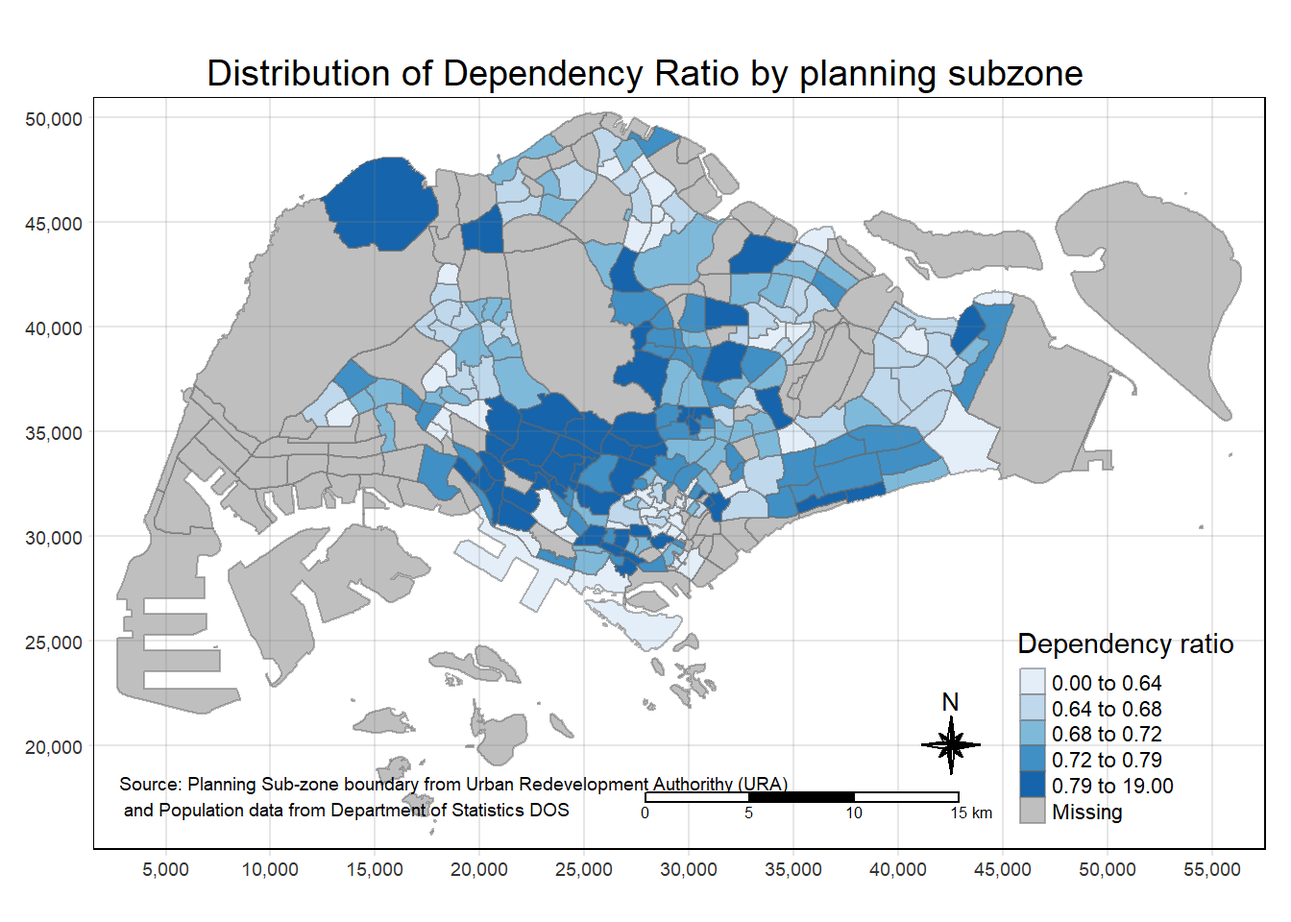
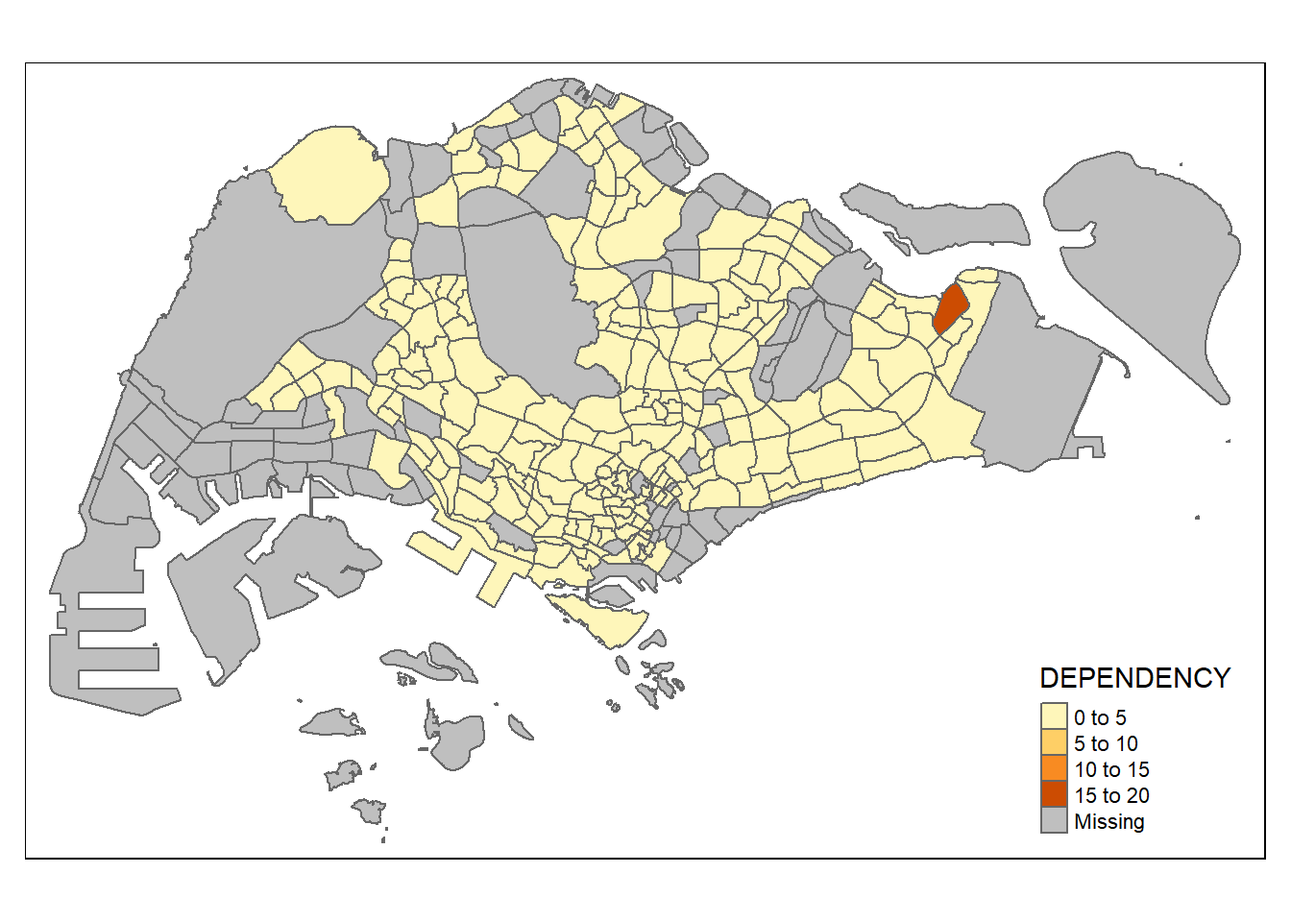
1st commit 23 nov hands-on2

diff --git a/_site/Hands-on_Ex02/Hands-on_Ex02.html b/_site/Hands-on_Ex02/Hands-on_Ex02.html
@@ -189,6 +189,7 @@ code span.wa { color: #60a0b0; font-weight: bold; font-style: italic; } /* Warni
   <li><a href="#choropleth-mapping-geospatial-data-using-tmap" id="toc-choropleth-mapping-geospatial-data-using-tmap" class="nav-link" data-scroll-target="#choropleth-mapping-geospatial-data-using-tmap">Choropleth Mapping Geospatial Data Using tmap</a>
   <ul class="collapse">
   <li><a href="#plotting-a-choropleth-map-quickly-using-qtm" id="toc-plotting-a-choropleth-map-quickly-using-qtm" class="nav-link" data-scroll-target="#plotting-a-choropleth-map-quickly-using-qtm">Plotting a choropleth map quickly using qtm()</a></li>
+  <li><a href="#creating-a-choropleth-map-by-using-tmaps-elements" id="toc-creating-a-choropleth-map-by-using-tmaps-elements" class="nav-link" data-scroll-target="#creating-a-choropleth-map-by-using-tmaps-elements">Creating a Choropleth map by using tmap’s elements</a></li>
   </ul></li>
   </ul>
 </nav>
@@ -243,7 +244,7 @@ tidyverse 1.3.2 ──</code></pre>
 ✖ dplyr::filter() masks stats::filter()
 ✖ dplyr::lag()    masks stats::lag()</code></pre>
 </div>
-<div class="sourceCode cell-code" id="cb6"><pre class="sourceCode r code-with-copy"><code class="sourceCode r"><span id="cb6-1"><a href="#cb6-1" aria-hidden="true" tabindex="-1"></a><span class="fu">library</span>(<span class="st">"tmap"</span>)</span></code><button title="Copy to Clipboard" class="code-copy-button"><i class="bi"></i></button></pre></div>
+<div class="sourceCode cell-code" id="cb6"><pre class="sourceCode r code-with-copy"><code class="sourceCode r"><span id="cb6-1"><a href="#cb6-1" aria-hidden="true" tabindex="-1"></a><span class="fu">library</span>(tmap)</span></code><button title="Copy to Clipboard" class="code-copy-button"><i class="bi"></i></button></pre></div>
 </div>
 </section>
 <section id="import-geospatial-data-into-r" class="level2">
@@ -349,8 +350,8 @@ dbl (2): Pop, Time
 <h3 class="anchored" data-anchor-id="section"></h3>
 <p>Data Wrangling</p>
 <ul>
-<li><p><em>pivot_wider()</em> of <strong>tidyr</strong> package, and</p></li>
-<li><p><em>mutate()</em>, <em>filter()</em>, <em>group_by()</em> and <em>select()</em> of <strong>dplyr</strong> package</p></li>
+<li><p><em>pivot_wider()</em> (rows to column headers) of <strong>tidyr</strong> package, and</p></li>
+<li><p><em>mutate() (create new cal col)</em>, <em>filter() (subset rows)</em>, <em>group_by()</em> and <em>select() (select cols)</em> of <strong>dplyr</strong> package</p></li>
 </ul>
 <div class="cell">
 <div class="sourceCode cell-code" id="cb15"><pre class="sourceCode r code-with-copy"><code class="sourceCode r"><span id="cb15-1"><a href="#cb15-1" aria-hidden="true" tabindex="-1"></a>popdata2020 <span class="ot">&lt;-</span> popdata <span class="sc">%&gt;%</span> </span>
@@ -388,15 +389,51 @@ dbl (2): Pop, Time
 # … with 322 more rows, and abbreviated variable name ¹DEPENDENCY</code></pre>
 </div>
 </div>
+<p>Refer to this <a href="https://bookdown.org/yih_huynh/Guide-to-R-Book/groupby.html">link</a>for difference between group_by() - mutate() and group_by() - summarise()</p>
+<p>ungroup() usually done after performing calculation in group()</p>
+<div class="cell">
+<div class="sourceCode cell-code" id="cb19"><pre class="sourceCode r code-with-copy"><code class="sourceCode r"><span id="cb19-1"><a href="#cb19-1" aria-hidden="true" tabindex="-1"></a>popdata20201 <span class="ot">&lt;-</span> popdata <span class="sc">%&gt;%</span> </span>
+<span id="cb19-2"><a href="#cb19-2" aria-hidden="true" tabindex="-1"></a>  <span class="fu">filter</span>(Time <span class="sc">==</span> <span class="dv">2020</span>) <span class="sc">%&gt;%</span> </span>
+<span id="cb19-3"><a href="#cb19-3" aria-hidden="true" tabindex="-1"></a>  <span class="fu">group_by</span>(PA,SZ,AG) <span class="sc">%&gt;%</span> </span>
+<span id="cb19-4"><a href="#cb19-4" aria-hidden="true" tabindex="-1"></a>  <span class="fu">summarise</span>(<span class="at">POP =</span> <span class="fu">sum</span>(Pop))</span></code><button title="Copy to Clipboard" class="code-copy-button"><i class="bi"></i></button></pre></div>
+<div class="cell-output cell-output-stderr">
+<pre><code>`summarise()` has grouped output by 'PA', 'SZ'. You can override using the
+`.groups` argument.</code></pre>
+</div>
+<div class="sourceCode cell-code" id="cb21"><pre class="sourceCode r code-with-copy"><code class="sourceCode r"><span id="cb21-1"><a href="#cb21-1" aria-hidden="true" tabindex="-1"></a>popdata20201</span></code><button title="Copy to Clipboard" class="code-copy-button"><i class="bi"></i></button></pre></div>
+<div class="cell-output cell-output-stdout">
+<pre><code># A tibble: 6,308 × 4
+# Groups:   PA, SZ [332]
+   PA         SZ                     AG         POP
+   &lt;chr&gt;      &lt;chr&gt;                  &lt;chr&gt;    &lt;dbl&gt;
+ 1 Ang Mo Kio Ang Mo Kio Town Centre 0_to_4     170
+ 2 Ang Mo Kio Ang Mo Kio Town Centre 10_to_14   280
+ 3 Ang Mo Kio Ang Mo Kio Town Centre 15_to_19   340
+ 4 Ang Mo Kio Ang Mo Kio Town Centre 20_to_24   270
+ 5 Ang Mo Kio Ang Mo Kio Town Centre 25_to_29   260
+ 6 Ang Mo Kio Ang Mo Kio Town Centre 30_to_34   310
+ 7 Ang Mo Kio Ang Mo Kio Town Centre 35_to_39   330
+ 8 Ang Mo Kio Ang Mo Kio Town Centre 40_to_44   400
+ 9 Ang Mo Kio Ang Mo Kio Town Centre 45_to_49   480
+10 Ang Mo Kio Ang Mo Kio Town Centre 5_to_9     230
+# … with 6,298 more rows</code></pre>
+</div>
+</div>
 </section>
 <section id="joining-the-attribute-data-and-geospatial-data" class="level3">
 <h3 class="anchored" data-anchor-id="joining-the-attribute-data-and-geospatial-data">Joining the attribute data and geospatial data</h3>
-<p>Convert PA and SZ fields in popdata2020 into all uppercase</p>
+<p>Convert PA and SZ fields in popdata2020 into all uppercase using:</p>
+<ol type="1">
+<li>toupper() &lt;- to upper case</li>
+<li><a href="https://dplyr.tidyverse.org/reference/mutate_all.html">mutate.at()</a>&lt;- mutate multiple columns</li>
+<li>argument: .var &lt;- list of columns generated by vars()</li>
+<li>argument: .funs &lt;- a function fun, a quosure style lambda</li>
+</ol>
 <div class="cell">
-<div class="sourceCode cell-code" id="cb19"><pre class="sourceCode r code-with-copy"><code class="sourceCode r"><span id="cb19-1"><a href="#cb19-1" aria-hidden="true" tabindex="-1"></a>popdata2020 <span class="ot">&lt;-</span> popdata2020 <span class="sc">%&gt;%</span> </span>
-<span id="cb19-2"><a href="#cb19-2" aria-hidden="true" tabindex="-1"></a>  <span class="fu">mutate_at</span>(<span class="at">.var=</span> <span class="fu">vars</span>(PA,SZ),</span>
-<span id="cb19-3"><a href="#cb19-3" aria-hidden="true" tabindex="-1"></a>            <span class="at">.funs =</span> <span class="fu">funs</span>(toupper)) <span class="sc">%&gt;%</span></span>
-<span id="cb19-4"><a href="#cb19-4" aria-hidden="true" tabindex="-1"></a>  <span class="fu">filter</span>(<span class="st">`</span><span class="at">ECONOMY ACTIVE</span><span class="st">`</span> <span class="sc">&gt;</span><span class="dv">0</span>)</span></code><button title="Copy to Clipboard" class="code-copy-button"><i class="bi"></i></button></pre></div>
+<div class="sourceCode cell-code" id="cb23"><pre class="sourceCode r code-with-copy"><code class="sourceCode r"><span id="cb23-1"><a href="#cb23-1" aria-hidden="true" tabindex="-1"></a>popdata2020 <span class="ot">&lt;-</span> popdata2020 <span class="sc">%&gt;%</span> </span>
+<span id="cb23-2"><a href="#cb23-2" aria-hidden="true" tabindex="-1"></a>  <span class="fu">mutate_at</span>(<span class="at">.var=</span> <span class="fu">vars</span>(PA,SZ),</span>
+<span id="cb23-3"><a href="#cb23-3" aria-hidden="true" tabindex="-1"></a>            <span class="at">.funs =</span> <span class="fu">funs</span>(toupper)) <span class="sc">%&gt;%</span></span>
+<span id="cb23-4"><a href="#cb23-4" aria-hidden="true" tabindex="-1"></a>  <span class="fu">filter</span>(<span class="st">`</span><span class="at">ECONOMY ACTIVE</span><span class="st">`</span> <span class="sc">&gt;</span><span class="dv">0</span>)</span></code><button title="Copy to Clipboard" class="code-copy-button"><i class="bi"></i></button></pre></div>
 <div class="cell-output cell-output-stderr">
 <pre><code>Warning: `funs()` was deprecated in dplyr 0.8.0.
 Please use a list of either functions or lambdas: 
@@ -415,11 +452,11 @@ Call `lifecycle::last_lifecycle_warnings()` to see where this warning was genera
 </div>
 <p>Next, <em>left_join()</em> of <strong>dplyr</strong> is used to join the geographical data and attribute table using planning subzone name e.g.&nbsp;<em>SUBZONE_N</em> and <em>SZ</em> as the common identifier.</p>
 <div class="cell">
-<div class="sourceCode cell-code" id="cb21"><pre class="sourceCode r code-with-copy"><code class="sourceCode r"><span id="cb21-1"><a href="#cb21-1" aria-hidden="true" tabindex="-1"></a>mpsz_pop2020 <span class="ot">&lt;-</span> <span class="fu">left_join</span>(mpsz, popdata2020,</span>
-<span id="cb21-2"><a href="#cb21-2" aria-hidden="true" tabindex="-1"></a>                          <span class="at">by =</span> <span class="fu">c</span>(<span class="st">"SUBZONE_N"</span> <span class="ot">=</span> <span class="st">"SZ"</span>))</span></code><button title="Copy to Clipboard" class="code-copy-button"><i class="bi"></i></button></pre></div>
+<div class="sourceCode cell-code" id="cb25"><pre class="sourceCode r code-with-copy"><code class="sourceCode r"><span id="cb25-1"><a href="#cb25-1" aria-hidden="true" tabindex="-1"></a>mpsz_pop2020 <span class="ot">&lt;-</span> <span class="fu">left_join</span>(mpsz, popdata2020,</span>
+<span id="cb25-2"><a href="#cb25-2" aria-hidden="true" tabindex="-1"></a>                          <span class="at">by =</span> <span class="fu">c</span>(<span class="st">"SUBZONE_N"</span> <span class="ot">=</span> <span class="st">"SZ"</span>))</span></code><button title="Copy to Clipboard" class="code-copy-button"><i class="bi"></i></button></pre></div>
 </div>
 <div class="cell">
-<div class="sourceCode cell-code" id="cb22"><pre class="sourceCode r code-with-copy"><code class="sourceCode r"><span id="cb22-1"><a href="#cb22-1" aria-hidden="true" tabindex="-1"></a><span class="fu">write_rds</span>(mpsz_pop2020, <span class="st">"data/rds/mpszpop2020.rds"</span>)</span></code><button title="Copy to Clipboard" class="code-copy-button"><i class="bi"></i></button></pre></div>
+<div class="sourceCode cell-code" id="cb26"><pre class="sourceCode r code-with-copy"><code class="sourceCode r"><span id="cb26-1"><a href="#cb26-1" aria-hidden="true" tabindex="-1"></a><span class="co">#write_rds(mpsz_pop2020, "data/rds/mpszpop2020.rds")</span></span></code><button title="Copy to Clipboard" class="code-copy-button"><i class="bi"></i></button></pre></div>
 </div>
 </section>
 </section>
@@ -427,97 +464,84 @@ Call `lifecycle::last_lifecycle_warnings()` to see where this warning was genera
 <h2 class="anchored" data-anchor-id="choropleth-mapping-geospatial-data-using-tmap">Choropleth Mapping Geospatial Data Using tmap</h2>
 <p>Two approaches can be used to prepare thematic map using <em>tmap</em>, they are:</p>
 <ul>
-<li><p>Plotting a thematic map quickly by using <em>qtm()</em>.</p></li>
+<li><p>Plotting a thematic map quickly by using <a href="https://bookdown.org/lexcomber/brunsdoncomber2e/Ch3.html">qtm()</a> (Quick thematic plot)</p></li>
 <li><p>Plotting highly customisable thematic map by using tmap elements.</p></li>
 </ul>
 <section id="plotting-a-choropleth-map-quickly-using-qtm" class="level3">
 <h3 class="anchored" data-anchor-id="plotting-a-choropleth-map-quickly-using-qtm">Plotting a choropleth map quickly using qtm()</h3>
 <div class="cell">
-<div class="sourceCode cell-code" id="cb23"><pre class="sourceCode r code-with-copy"><code class="sourceCode r"><span id="cb23-1"><a href="#cb23-1" aria-hidden="true" tabindex="-1"></a><span class="fu">top_n</span>(mpsz_pop2020, <span class="sc">-</span><span class="dv">15</span>,<span class="st">`</span><span class="at">DEPENDENCY</span><span class="st">`</span>)</span></code><button title="Copy to Clipboard" class="code-copy-button"><i class="bi"></i></button></pre></div>
+<div class="sourceCode cell-code" id="cb27"><pre class="sourceCode r code-with-copy"><code class="sourceCode r"><span id="cb27-1"><a href="#cb27-1" aria-hidden="true" tabindex="-1"></a><span class="fu">top_n</span>(mpsz_pop2020, <span class="dv">1</span>,<span class="st">`</span><span class="at">DEPENDENCY</span><span class="st">`</span>)</span></code><button title="Copy to Clipboard" class="code-copy-button"><i class="bi"></i></button></pre></div>
 <div class="cell-output cell-output-stdout">
-<pre><code>Simple feature collection with 15 features and 21 fields
+<pre><code>Simple feature collection with 1 feature and 21 fields
 Geometry type: MULTIPOLYGON
 Dimension:     XY
-Bounding box:  xmin: 17364.17 ymin: 26398.47 xmax: 30794.28 ymax: 35488.95
+Bounding box:  xmin: 42513.65 ymin: 38644.89 xmax: 44163.44 ymax: 41072.58
 Projected CRS: SVY21
-First 10 features:
-   OBJECTID SUBZONE_NO       SUBZONE_N SUBZONE_C CA_IND      PLN_AREA_N
-1         3          3       BOAT QUAY    SRSZ03      Y SINGAPORE RIVER
-2         8          2     CLARKE QUAY    SRSZ02      Y SINGAPORE RIVER
-3        12          6 ALEXANDRA NORTH    BMSZ06      N     BUKIT MERAH
-4        27          8           CECIL    DTSZ08      Y   DOWNTOWN CORE
-5        31         11 CENTRAL SUBZONE    DTSZ11      Y   DOWNTOWN CORE
-6        34          2   PEOPLE'S PARK    OTSZ02      Y          OUTRAM
-7        53          3        SOMERSET    ORSZ03      Y         ORCHARD
-8        56         15            PORT    QTSZ15      N      QUEENSTOWN
-9        57          1     DHOBY GHAUT    MUSZ01      Y          MUSEUM
-10       62          9   TANJONG PAGAR    DTSZ09      Y   DOWNTOWN CORE
-   PLN_AREA_C       REGION_N REGION_C          INC_CRC FMEL_UPD_D   X_ADDR
-1          SR CENTRAL REGION       CR C35FEFF02B13E0E5 2014-12-05 29654.96
-2          SR CENTRAL REGION       CR 48661DC0FBA09F7A 2014-12-05 29253.21
-3          BM CENTRAL REGION       CR 4DC4BF8D86594CBF 2014-12-05 26548.25
-4          DT CENTRAL REGION       CR 65AA82AF6F4D925D 2014-12-05 29730.20
-5          DT CENTRAL REGION       CR 8EFE9EC1AEF2DA0A 2014-12-05 30125.84
-6          OT CENTRAL REGION       CR B4120D23006C932A 2014-12-05 28831.78
-7          OR CENTRAL REGION       CR F70C32D861DD6CA5 2014-12-05 28626.56
-8          QT CENTRAL REGION       CR 543ED13CCC907021 2014-12-05 21576.08
-9          MU CENTRAL REGION       CR AD3DE26295353551 2014-12-05 29320.07
-10         DT CENTRAL REGION       CR 4FFE6642FB35D40A 2014-12-05 29397.83
-     Y_ADDR SHAPE_Leng SHAPE_Area              PA YOUNG ECONOMY ACTIVE AGED
-1  29974.66   1740.926  160807.50 SINGAPORE RIVER     0             40   10
-2  30222.86   2208.619  290184.65 SINGAPORE RIVER     0             50   10
-3  30519.39   2907.051  293706.40     BUKIT MERAH   720           1740  160
-4  29011.33   2116.095  196619.86   DOWNTOWN CORE    20            230    0
-5  28683.04   5002.016 1070723.26   DOWNTOWN CORE   170            660   40
-6  29419.65   1822.193   93140.44          OUTRAM    20            200   60
-7  31494.90   3039.805  329437.93         ORCHARD     0             80    0
-8  28788.22  23438.819 7601894.00      QUEENSTOWN     0             60   20
-9  31245.75   2584.788  221973.34          MUSEUM    50            250   20
-10 28706.35   1787.710  145518.66   DOWNTOWN CORE    80            530   70
-   TOTAL DEPENDENCY                       geometry
-1     50 0.25000000 MULTIPOLYGON (((29932.33 29...
-2     60 0.20000000 MULTIPOLYGON (((29351.26 29...
-3   2620 0.50574713 MULTIPOLYGON (((26231.96 30...
-4    250 0.08695652 MULTIPOLYGON (((29808.18 28...
-5    870 0.31818182 MULTIPOLYGON (((30436.73 29...
-6    280 0.40000000 MULTIPOLYGON (((29099.02 29...
-7     80 0.00000000 MULTIPOLYGON (((28677.44 31...
-8     80 0.33333333 MULTIPOLYGON (((20404.57 30...
-9    320 0.28000000 MULTIPOLYGON (((29383.41 31...
-10   680 0.28301887 MULTIPOLYGON (((29612.3 286...</code></pre>
+  OBJECTID SUBZONE_NO   SUBZONE_N SUBZONE_C CA_IND PLN_AREA_N PLN_AREA_C
+1      229          6 LOYANG WEST    PRSZ06      N  PASIR RIS         PR
+     REGION_N REGION_C          INC_CRC FMEL_UPD_D   X_ADDR   Y_ADDR SHAPE_Leng
+1 EAST REGION       ER 05FD555397CBEE7A 2014-12-05 43294.83 39888.77   6203.002
+  SHAPE_Area        PA YOUNG ECONOMY ACTIVE AGED TOTAL DEPENDENCY
+1    2114789 PASIR RIS     0             10  190   200         19
+                        geometry
+1 MULTIPOLYGON (((43756.39 39...</code></pre>
 </div>
 </div>
 <div class="cell">
-<div class="sourceCode cell-code" id="cb25"><pre class="sourceCode r code-with-copy"><code class="sourceCode r"><span id="cb25-1"><a href="#cb25-1" aria-hidden="true" tabindex="-1"></a><span class="fu">tmap_mode</span>(<span class="st">"plot"</span>)</span></code><button title="Copy to Clipboard" class="code-copy-button"><i class="bi"></i></button></pre></div>
+<div class="sourceCode cell-code" id="cb29"><pre class="sourceCode r code-with-copy"><code class="sourceCode r"><span id="cb29-1"><a href="#cb29-1" aria-hidden="true" tabindex="-1"></a><span class="fu">tmap_mode</span>(<span class="st">"plot"</span>)</span></code><button title="Copy to Clipboard" class="code-copy-button"><i class="bi"></i></button></pre></div>
 <div class="cell-output cell-output-stderr">
 <pre><code>tmap mode set to plotting</code></pre>
 </div>
-<div class="sourceCode cell-code" id="cb27"><pre class="sourceCode r code-with-copy"><code class="sourceCode r"><span id="cb27-1"><a href="#cb27-1" aria-hidden="true" tabindex="-1"></a><span class="fu">qtm</span>(mpsz_pop2020,</span>
-<span id="cb27-2"><a href="#cb27-2" aria-hidden="true" tabindex="-1"></a>    <span class="at">fill =</span> <span class="st">"DEPENDENCY"</span>)</span></code><button title="Copy to Clipboard" class="code-copy-button"><i class="bi"></i></button></pre></div>
-<div class="cell-output-display">
-<p><img src="Hands-on_Ex02_files/figure-html/unnamed-chunk-11-1.png" class="img-fluid" width="672"></p>
-</div>
-</div>
-<div class="cell">
-<div class="sourceCode cell-code" id="cb28"><pre class="sourceCode r code-with-copy"><code class="sourceCode r"><span id="cb28-1"><a href="#cb28-1" aria-hidden="true" tabindex="-1"></a><span class="fu">tm_shape</span>(mpsz_pop2020)<span class="sc">+</span></span>
-<span id="cb28-2"><a href="#cb28-2" aria-hidden="true" tabindex="-1"></a>  <span class="fu">tm_fill</span>(<span class="st">"DEPENDENCY"</span>, </span>
-<span id="cb28-3"><a href="#cb28-3" aria-hidden="true" tabindex="-1"></a>          <span class="at">style =</span> <span class="st">"quantile"</span>, </span>
-<span id="cb28-4"><a href="#cb28-4" aria-hidden="true" tabindex="-1"></a>          <span class="at">palette =</span> <span class="st">"Blues"</span>,</span>
-<span id="cb28-5"><a href="#cb28-5" aria-hidden="true" tabindex="-1"></a>          <span class="at">title =</span> <span class="st">"Dependency ratio"</span>) <span class="sc">+</span></span>
-<span id="cb28-6"><a href="#cb28-6" aria-hidden="true" tabindex="-1"></a>  <span class="fu">tm_layout</span>(<span class="at">main.title =</span> <span class="st">"Distribution of Dependency Ratio by planning subzone"</span>,</span>
-<span id="cb28-7"><a href="#cb28-7" aria-hidden="true" tabindex="-1"></a>            <span class="at">main.title.position =</span> <span class="st">"center"</span>,</span>
-<span id="cb28-8"><a href="#cb28-8" aria-hidden="true" tabindex="-1"></a>            <span class="at">main.title.size =</span> <span class="fl">1.2</span>,</span>
-<span id="cb28-9"><a href="#cb28-9" aria-hidden="true" tabindex="-1"></a>            <span class="at">legend.height =</span> <span class="fl">0.45</span>, </span>
-<span id="cb28-10"><a href="#cb28-10" aria-hidden="true" tabindex="-1"></a>            <span class="at">legend.width =</span> <span class="fl">0.35</span>,</span>
-<span id="cb28-11"><a href="#cb28-11" aria-hidden="true" tabindex="-1"></a>            <span class="at">frame =</span> <span class="cn">TRUE</span>) <span class="sc">+</span></span>
-<span id="cb28-12"><a href="#cb28-12" aria-hidden="true" tabindex="-1"></a>  <span class="fu">tm_borders</span>(<span class="at">alpha =</span> <span class="fl">0.5</span>) <span class="sc">+</span></span>
-<span id="cb28-13"><a href="#cb28-13" aria-hidden="true" tabindex="-1"></a>  <span class="fu">tm_compass</span>(<span class="at">type=</span><span class="st">"8star"</span>, <span class="at">size =</span> <span class="dv">2</span>) <span class="sc">+</span></span>
-<span id="cb28-14"><a href="#cb28-14" aria-hidden="true" tabindex="-1"></a>  <span class="fu">tm_scale_bar</span>() <span class="sc">+</span></span>
-<span id="cb28-15"><a href="#cb28-15" aria-hidden="true" tabindex="-1"></a>  <span class="fu">tm_grid</span>(<span class="at">alpha =</span><span class="fl">0.2</span>) <span class="sc">+</span></span>
-<span id="cb28-16"><a href="#cb28-16" aria-hidden="true" tabindex="-1"></a>  <span class="fu">tm_credits</span>(<span class="st">"Source: Planning Sub-zone boundary from Urban Redevelopment Authorithy (URA)</span><span class="sc">\n</span><span class="st"> and Population data from Department of Statistics DOS"</span>, </span>
-<span id="cb28-17"><a href="#cb28-17" aria-hidden="true" tabindex="-1"></a>             <span class="at">position =</span> <span class="fu">c</span>(<span class="st">"left"</span>, <span class="st">"bottom"</span>))</span></code><button title="Copy to Clipboard" class="code-copy-button"><i class="bi"></i></button></pre></div>
+<div class="sourceCode cell-code" id="cb31"><pre class="sourceCode r code-with-copy"><code class="sourceCode r"><span id="cb31-1"><a href="#cb31-1" aria-hidden="true" tabindex="-1"></a><span class="fu">qtm</span>(mpsz_pop2020,</span>
+<span id="cb31-2"><a href="#cb31-2" aria-hidden="true" tabindex="-1"></a>    <span class="at">fill =</span> <span class="st">"DEPENDENCY"</span>)</span></code><button title="Copy to Clipboard" class="code-copy-button"><i class="bi"></i></button></pre></div>
 <div class="cell-output-display">
 <p><img src="Hands-on_Ex02_files/figure-html/unnamed-chunk-12-1.png" class="img-fluid" width="672"></p>
+</div>
+</div>
+<p>Things to learn from the code chunk above:</p>
+<ul>
+<li><p><em>tmap_mode()</em> with “plot” option is used to produce a static map. For interactive mode, “view” option should be used.</p></li>
+<li><p><em>fill</em> argument is used to map the attribute (i.e.&nbsp;DEPENDENCY)</p></li>
+</ul>
+</section>
+<section id="creating-a-choropleth-map-by-using-tmaps-elements" class="level3">
+<h3 class="anchored" data-anchor-id="creating-a-choropleth-map-by-using-tmaps-elements">Creating a Choropleth map by using <a href="https://www.rdocumentation.org/packages/tmap/versions/3.3-3/topics/tmap-element">tmap’s elements</a></h3>
+<p><a href="https://www.rdocumentation.org/packages/tmap/versions/3.3-3/topics/tm_shape">tm_shape()</a> &lt;- specify the shape object / spatial data object</p>
+<p><a href="https://www.rdocumentation.org/packages/tmap/versions/3.3-3/topics/tm_fill">tm_fill()</a> &lt;- fills polygons (no border)</p>
+<ul>
+<li><p>style: method to process the color scale when <strong><code>col (data variable)</code></strong> is a numeric variable. To process numeric and categorical use “cat”</p></li>
+<li><p><a href="https://renenyffenegger.ch/notes/development/languages/R/packages/tmaptools/index">palette</a> : palettes names or vectors of colors. default is taken from tm_layout’s aes.paletttes arg</p></li>
+</ul>
+<p>tm_borders() &lt;- draws the borders of polygons (alpha is 0-1, transparency)</p>
+<p>tm_polygons() &lt;- fills the polygon and draws the polygon borders</p>
+<p><a href="https://www.rdocumentation.org/packages/tmap/versions/3.3-3/topics/tm_layout">tm_layout()</a> &lt;- specify map layout</p>
+<ul>
+<li>aes.palette &lt;- ‘seq’ (sequential palettes), ‘div’ (diverging palettes) , ‘cat’ (categorical palettes)</li>
+</ul>
+<p><a href="https://www.rdocumentation.org/packages/tmap/versions/3.3-3/topics/tm_compass">tm_compass()</a> &lt;- create map compass</p>
+<p>tm_scale_bar() &lt;- creates scale bar</p>
+<p>tm_grid() &lt;- creates grid lines (alpha is 0-1, transparency of grid lines)</p>
+<p>tm_credits() &lt;- create a text for credits</p>
+<div class="cell">
+<div class="sourceCode cell-code" id="cb32"><pre class="sourceCode r code-with-copy"><code class="sourceCode r"><span id="cb32-1"><a href="#cb32-1" aria-hidden="true" tabindex="-1"></a><span class="fu">tm_shape</span>(mpsz_pop2020)<span class="sc">+</span></span>
+<span id="cb32-2"><a href="#cb32-2" aria-hidden="true" tabindex="-1"></a>  <span class="fu">tm_fill</span>(<span class="st">"DEPENDENCY"</span>, </span>
+<span id="cb32-3"><a href="#cb32-3" aria-hidden="true" tabindex="-1"></a>          <span class="at">style =</span> <span class="st">"quantile"</span>, </span>
+<span id="cb32-4"><a href="#cb32-4" aria-hidden="true" tabindex="-1"></a>          <span class="at">palette =</span> <span class="st">"Reds"</span>,</span>
+<span id="cb32-5"><a href="#cb32-5" aria-hidden="true" tabindex="-1"></a>          <span class="at">title =</span> <span class="st">"Dependency ratio"</span>) <span class="sc">+</span></span>
+<span id="cb32-6"><a href="#cb32-6" aria-hidden="true" tabindex="-1"></a>  <span class="fu">tm_layout</span>(<span class="at">main.title =</span> <span class="st">"Distribution of Dependency Ratio by planning subzone"</span>,</span>
+<span id="cb32-7"><a href="#cb32-7" aria-hidden="true" tabindex="-1"></a>            <span class="at">main.title.position =</span> <span class="st">"center"</span>,</span>
+<span id="cb32-8"><a href="#cb32-8" aria-hidden="true" tabindex="-1"></a>            <span class="at">main.title.size =</span> <span class="fl">1.2</span>,</span>
+<span id="cb32-9"><a href="#cb32-9" aria-hidden="true" tabindex="-1"></a>            <span class="at">legend.height =</span> <span class="fl">0.45</span>, </span>
+<span id="cb32-10"><a href="#cb32-10" aria-hidden="true" tabindex="-1"></a>            <span class="at">legend.width =</span> <span class="fl">0.35</span>,</span>
+<span id="cb32-11"><a href="#cb32-11" aria-hidden="true" tabindex="-1"></a>            <span class="at">frame =</span> <span class="cn">TRUE</span>) <span class="sc">+</span></span>
+<span id="cb32-12"><a href="#cb32-12" aria-hidden="true" tabindex="-1"></a>  <span class="fu">tm_borders</span>(<span class="at">alpha =</span> <span class="fl">0.5</span>) <span class="sc">+</span></span>
+<span id="cb32-13"><a href="#cb32-13" aria-hidden="true" tabindex="-1"></a>  <span class="fu">tm_compass</span>(<span class="at">type=</span><span class="st">"8star"</span>, <span class="at">size =</span> <span class="dv">2</span>) <span class="sc">+</span></span>
+<span id="cb32-14"><a href="#cb32-14" aria-hidden="true" tabindex="-1"></a>  <span class="fu">tm_scale_bar</span>() <span class="sc">+</span></span>
+<span id="cb32-15"><a href="#cb32-15" aria-hidden="true" tabindex="-1"></a>  <span class="fu">tm_grid</span>(<span class="at">alpha =</span><span class="fl">0.2</span>) <span class="sc">+</span></span>
+<span id="cb32-16"><a href="#cb32-16" aria-hidden="true" tabindex="-1"></a>  <span class="fu">tm_credits</span>(<span class="st">"Source: Planning Sub-zone boundary from Urban Redevelopment Authorithy (URA)</span><span class="sc">\n</span><span class="st"> and Population data from Department of Statistics DOS"</span>, </span>
+<span id="cb32-17"><a href="#cb32-17" aria-hidden="true" tabindex="-1"></a>             <span class="at">position =</span> <span class="fu">c</span>(<span class="st">"left"</span>, <span class="st">"bottom"</span>))</span></code><button title="Copy to Clipboard" class="code-copy-button"><i class="bi"></i></button></pre></div>
+<div class="cell-output-display">
+<p><img src="Hands-on_Ex02_files/figure-html/unnamed-chunk-13-1.png" class="img-fluid" width="672"></p>
 </div>
 </div>
 
